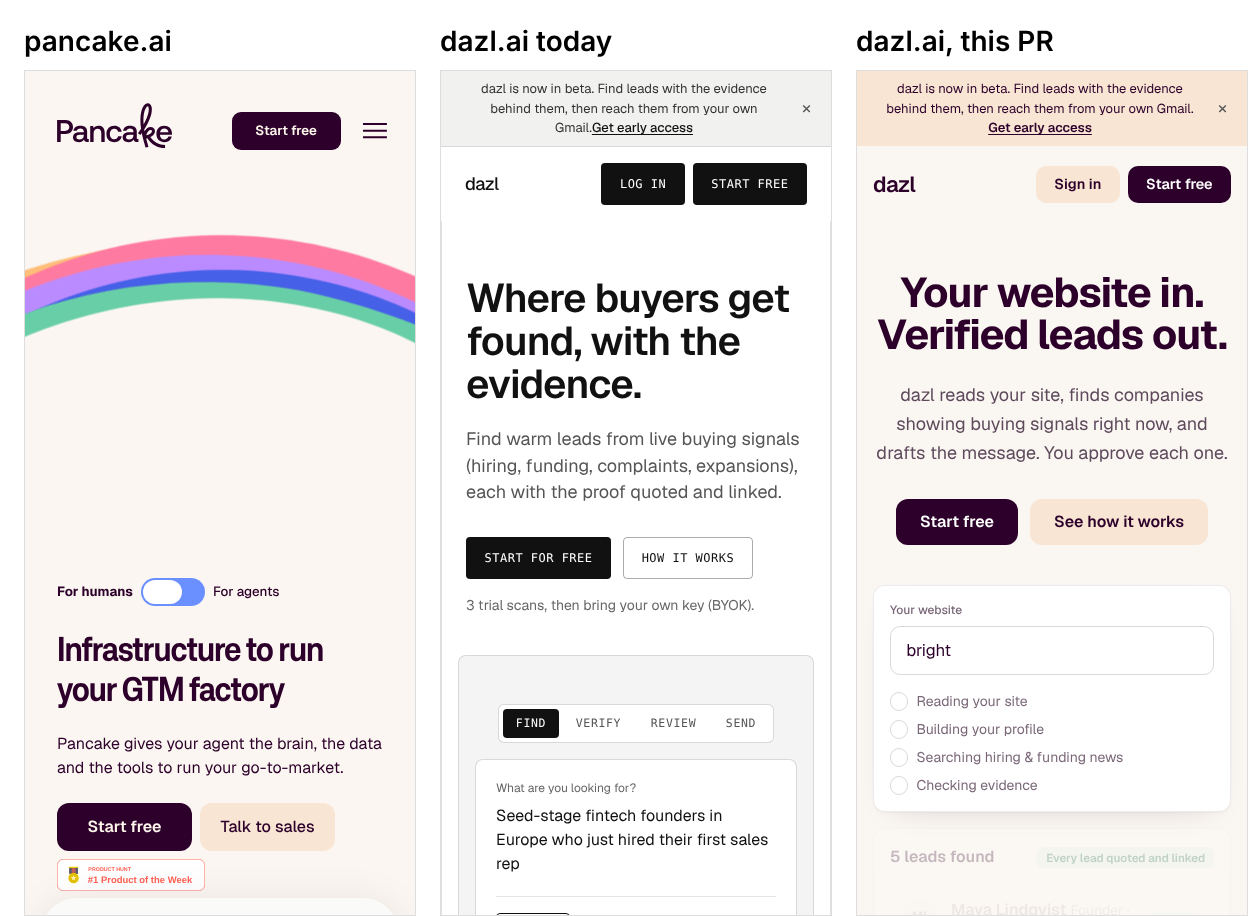
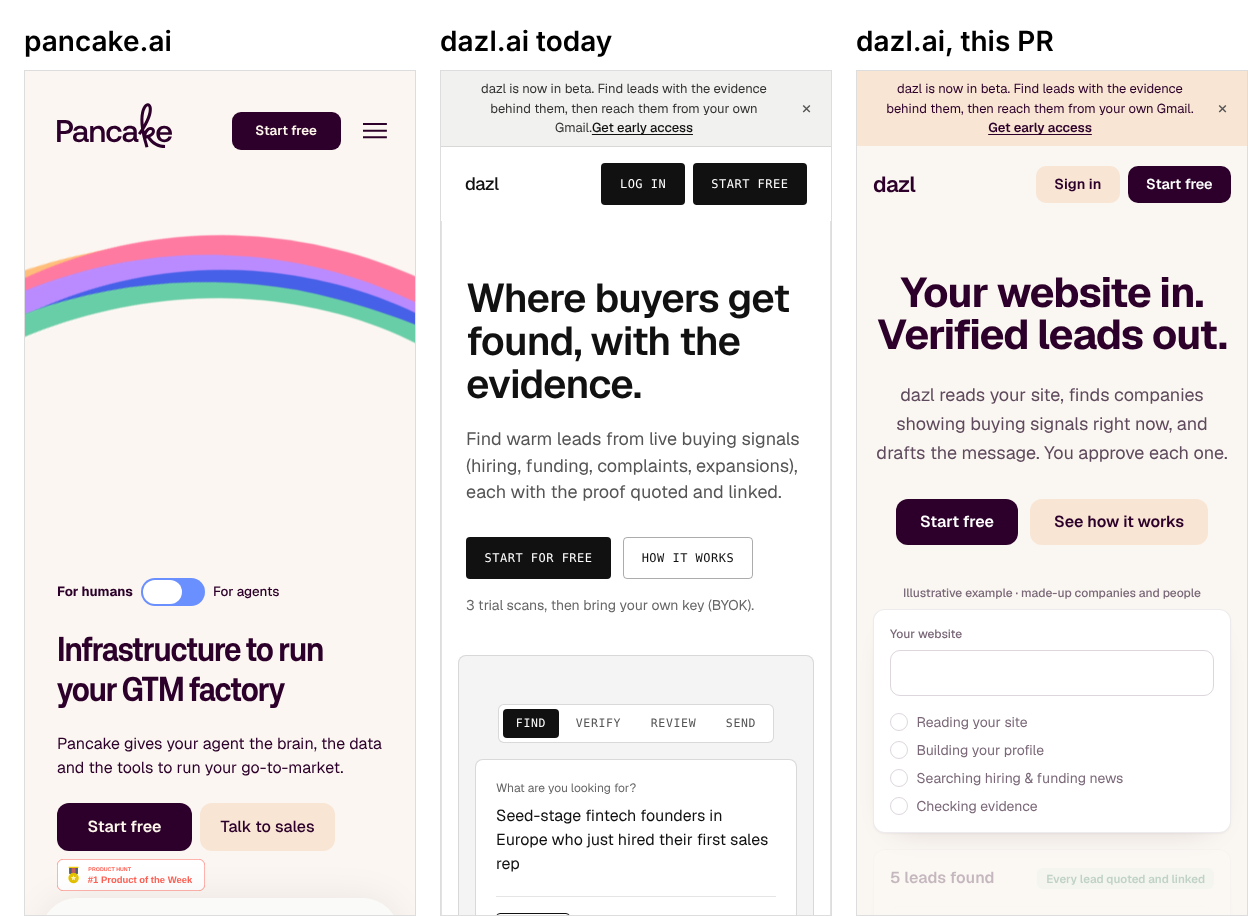
Homepage copy matches behaviour: labelled example demo, weekly plays, held not dropped, provider costs at Pro
- The demo says on screen and in its aria-label that it is an illustrative
  example with made-up companies and people.
- Plays re-run weekly (lib/watch.ts WEEK_S): no daily claims.
- Leads that fail a check are held for review, not dropped.
- The Pro card states that AI usage on your own key is billed by the provider.
copy-truth gains a regression for each; landing.ui checks the label.

Claude-Session: https://claude.ai/code/session_01CafonXdzjwkFYiMRJWtsKo

Changed region(s): [[0.7188, 0.6419, 0.9688, 0.9782]]

diff --git a/web/app/page.tsx b/web/app/page.tsx
@@ -14,12 +14,12 @@ export const metadata: Metadata = {
 
 const STEPS = [
   { n: '1', title: 'Paste your website', desc: 'That is the only thing you type. dazl reads your site and works out who buys from you and which signals to watch for. You can edit it.' },
-  { n: '2', title: 'Get verified leads daily', desc: 'Your Play searches hiring, funding and expansion news every day. Each lead comes with the line that shows the signal, linked to its source.' },
+  { n: '2', title: 'Get new leads every week', desc: 'Your Play runs again each week, searching hiring, funding and expansion news. Each lead comes with the line that shows the signal, linked to its source.' },
   { n: '3', title: 'Approve and send', desc: 'dazl drafts the message. You approve each one, and it goes from your own Gmail.' },
 ]
 const PROOF = [
   ['Quoted and linked', 'Every lead shows the exact line from its source page, with the link.'],
-  ['Company and date checked', 'dazl confirms the page names the company and that the date is recent. Leads that fail are dropped.'],
+  ['Company and date checked', 'dazl confirms the page names the company and that the date is recent. Leads that fail a check are held for your review, out of the ready-to-contact list.'],
   ['You approve each send', 'Email goes from your own Gmail after you approve the text. Autopilot is off unless you turn it on.'],
 ]
 
@@ -78,7 +78,7 @@ export default function Home() {
 
       <section id="pricing" className="px-4 sm:px-6 py-16 max-w-6xl mx-auto w-full">
         <h2 className="lp-h2 text-center mb-2">Simple pricing</h2>
-        <p className="text-[var(--ink-2)] text-center mb-10">One flat price. No credits, no per-lead fees.</p>
+        <p className="text-[var(--ink-2)] text-center mb-10">One flat price for dazl. No credits, no per-lead fees. Searches run on your own AI key, billed by your provider.</p>
         <div className="grid sm:grid-cols-2 gap-4 max-w-2xl mx-auto">
           <div className="lp-card p-7">
             <div className="text-sm font-medium text-[var(--ink-2)] mb-1">Free</div>
@@ -89,7 +89,7 @@ export default function Home() {
           <div className="lp-card p-7">
             <div className="text-sm font-medium mb-1">Pro</div>
             <div className="text-4xl font-semibold mb-2">$49<span className="text-base font-medium text-[var(--ink-2)]">/mo</span></div>
-            <p className="text-[var(--ink-2)] text-sm mb-6">No credits, no overages, no per-lead fees. Fair-use limits apply.</p>
+            <p className="text-[var(--ink-2)] text-sm mb-6">No credits, no per-lead fees. Runs on your own AI key: your provider bills that usage separately. Fair-use limits apply.</p>
             <a href="/api/auth/google" className="btn-primary w-full text-center block">Start free, upgrade any time</a>
           </div>
         </div>

diff --git a/web/app/landing-demo.tsx b/web/app/landing-demo.tsx
@@ -1,7 +1,7 @@
 "use client"
 import { useEffect, useState } from 'react'
 
-// The homepage demo: the real flow, played on a loop. A website is typed, the checks tick through,
+// The homepage demo: the real flow, played on a loop, labelled as an illustrative example (made-up data). A website is typed, the checks tick through,
 // five leads are found (three shown) and the Play goes live. Reduced motion shows the finished state.
 const URL_TEXT = 'brightsmile-dental.com'
 const CHECKS = ['Reading your site', 'Building your profile', 'Searching hiring & funding news', 'Checking evidence']
@@ -19,14 +19,15 @@ const initials = (n: string) => n.split(' ').map(w => w[0]).join('').slice(0, 2)
 export default function LandingDemo() {
   const [t, setT] = useState(0)
   useEffect(() => {
-    if (window.matchMedia('(prefers-reduced-motion: reduce)').matches) { setT(PLAY_AT); return }
+    if (window.matchMedia('(prefers-reduced-motion: reduce)').matches) { setT(PLAY_AT); return } // eslint-disable-line react-hooks/set-state-in-effect
     const id = setInterval(() => setT(x => (x + 1) % LOOP), TICK)
     return () => clearInterval(id)
   }, [])
   const typed = t >= TYPE_END ? URL_TEXT : URL_TEXT.slice(0, Math.ceil((URL_TEXT.length * t) / TYPE_END))
   const done = t >= LEADS_AT
   return (
-    <div className="lp-demo" data-testid="landing-demo" data-step={t >= PLAY_AT ? 'live' : done ? 'leads' : t >= TYPE_END ? 'checks' : 'typing'} aria-label="How a dazl run goes: a website in, checks, five leads found, a Play running daily">
+    <div className="lp-demo" data-testid="landing-demo" data-step={t >= PLAY_AT ? 'live' : done ? 'leads' : t >= TYPE_END ? 'checks' : 'typing'} aria-label="Illustrative example of a dazl run, with made-up companies and people: a website in, checks, leads found, a Play that runs weekly">
+      <div className="text-xs font-medium text-[var(--ink-3)] mb-2 text-center" data-testid="demo-label">Illustrative example · made-up companies and people</div>
       <div className="lp-card p-4 sm:p-5">
         <div className="text-xs font-medium text-[var(--ink-3)] mb-2">Your website</div>
         <div className="lp-url">{typed}<span className="lp-caret" aria-hidden /></div>
@@ -64,7 +65,7 @@ export default function LandingDemo() {
       </div>
       <div className={`lp-card mt-3 p-4 flex items-center justify-between gap-3 lp-fade ${t >= PLAY_AT ? 'lp-in' : ''}`} data-testid="demo-play">
         <div className="min-w-0"><div className="font-semibold">Dental practices opening a new location</div><div className="text-sm text-[var(--ink-2)]">Ohio · hiring or expansion news</div></div>
-        <span className="live-dot shrink-0">Live · runs daily</span>
+        <span className="live-dot shrink-0">Live · runs weekly</span>
       </div>
     </div>
   )

diff --git a/web/test/copy-truth.test.ts b/web/test/copy-truth.test.ts
@@ -21,3 +21,21 @@ test('copy matches behaviour: no "approve every send" vs autopilot contradiction
   assert.doesNotMatch(banner, /in seconds/)
   for (const p of ['app/app/seo/brief-panel.tsx', 'app/app/seo/newsjack-panel.tsx']) assert.match(read(p), /markdownToPlain\(/, p)
 })
+
+test('homepage claims match behaviour (Instinct #326): example demo labelled, weekly plays, held not dropped, provider costs at Pro', () => {
+  const page = read('app/page.tsx'); const demo = read('app/landing-demo.tsx')
+  // lib/watch.ts schedules a play's next run a week out; nothing runs daily.
+  assert.match(read('lib/watch.ts'), /WEEK_S = 7 \* 86400/)
+  for (const t of [page, demo]) assert.doesNotMatch(t, /\bdaily\b|every day/i)
+  assert.match(demo, /Live · runs weekly/)
+  // The demo's people and companies are invented: labelled on screen and for screen readers.
+  assert.match(demo, /data-testid="demo-label">Illustrative example · made-up companies and people</)
+  assert.match(demo, /aria-label="Illustrative example of a dazl run, with made-up companies and people/)
+  // Leads that fail a check are kept as held research for review, not deleted.
+  assert.doesNotMatch(page, /are dropped|drops what fails/)
+  assert.match(page, /held for your review, out of the ready-to-contact list/)
+  // Pro is a flat dazl fee; AI usage on the user's own key is billed by the provider, stated on the Pro card itself.
+  const pro = page.slice(page.indexOf('>Pro<'), page.indexOf('Start free, upgrade any time'))
+  assert.match(pro, /your provider bills that usage separately/)
+  assert.doesNotMatch(page, /no overages/i)
+})
